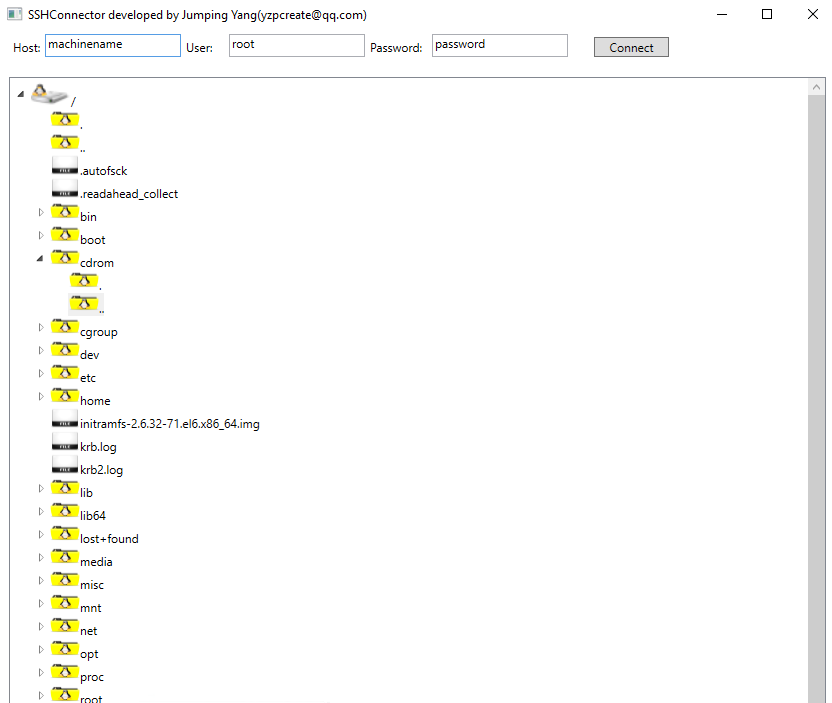
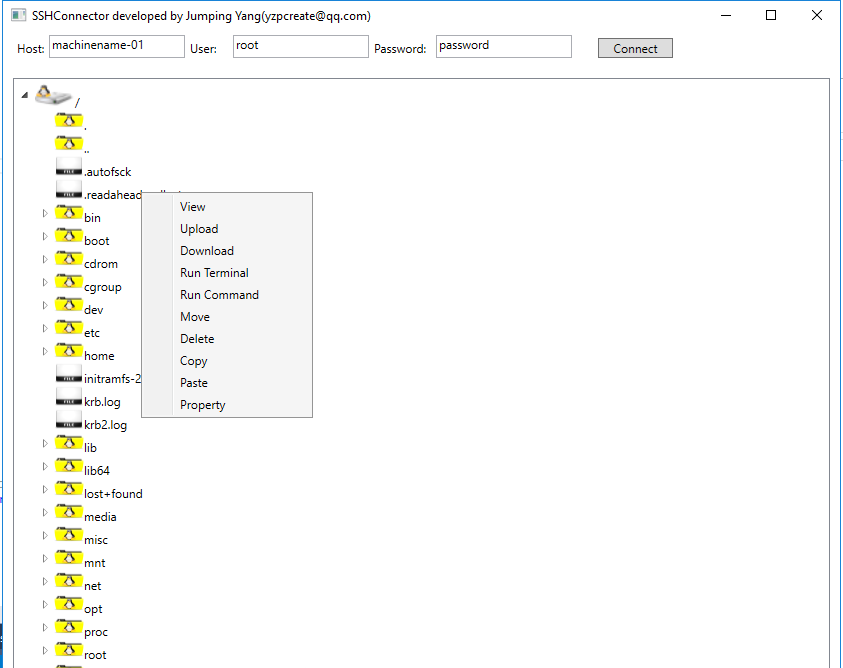
Add menus for SSHConnector

diff --git a/SSHConnector/SSHConnector/MainWindow.xaml.cs b/SSHConnector/SSHConnector/MainWindow.xaml.cs
@@ -146,13 +146,77 @@ namespace SSHConnector
 
             MenuItem mitem2 = new MenuItem();
             TextBlock v2 = new TextBlock();
-            v2.Inlines.Add("View2");
+            v2.Inlines.Add("Upload");
             mitem2.Header = v2;
             mitem2.Tag = o;
             mitem2.Click += MenuItem_View;
 
+            MenuItem mitem3 = new MenuItem();
+            TextBlock v3 = new TextBlock();
+            v3.Inlines.Add("Download");
+            mitem3.Header = v3;
+            mitem3.Tag = o;
+            mitem3.Click += MenuItem_View;
+
+            MenuItem mitem4 = new MenuItem();
+            TextBlock v4 = new TextBlock();
+            v4.Inlines.Add("Run Terminal");
+            mitem4.Header = v4;
+            mitem4.Tag = o;
+            mitem4.Click += MenuItem_View;
+
+            MenuItem mitem5 = new MenuItem();
+            TextBlock v5 = new TextBlock();
+            v5.Inlines.Add("Run Command");
+            mitem5.Header = v5;
+            mitem5.Tag = o;
+            mitem5.Click += MenuItem_View;
+
+            MenuItem mitem6 = new MenuItem();
+            TextBlock v6 = new TextBlock();
+            v6.Inlines.Add("Move");
+            mitem6.Header = v6;
+            mitem6.Tag = o;
+            mitem6.Click += MenuItem_View;
+
+            MenuItem mitem7 = new MenuItem();
+            TextBlock v7 = new TextBlock();
+            v7.Inlines.Add("Delete");
+            mitem7.Header = v7;
+            mitem7.Tag = o;
+            mitem7.Click += MenuItem_View;
+
+            MenuItem mitem8 = new MenuItem();
+            TextBlock v8 = new TextBlock();
+            v8.Inlines.Add("Copy");
+            mitem8.Header = v8;
+            mitem8.Tag = o;
+            mitem8.Click += MenuItem_View;
+
+            MenuItem mitem9 = new MenuItem();
+            TextBlock v9= new TextBlock();
+            v9.Inlines.Add("Paste");
+            mitem9.Header = v9;
+            mitem9.Tag = o;
+            mitem9.Click += MenuItem_View;
+
+            MenuItem mitem10 = new MenuItem();
+            TextBlock v10 = new TextBlock();
+            v10.Inlines.Add("Property");
+            mitem10.Header = v10;
+            mitem10.Tag = o;
+            mitem10.Click += MenuItem_View;
+
             menu.Items.Add(mitem1);
             menu.Items.Add(mitem2);
+            menu.Items.Add(mitem3);
+            menu.Items.Add(mitem4);
+            menu.Items.Add(mitem5);
+            menu.Items.Add(mitem6);
+            menu.Items.Add(mitem7);
+            menu.Items.Add(mitem8);
+            menu.Items.Add(mitem9);
+            menu.Items.Add(mitem10);
             tempTextBlock.ContextMenu = menu;
 
             return tempTextBlock;

diff --git a/README.md b/README.md
@@ -1,8 +1,20 @@
 # SSHConnector
 SSHConnector
 
-# WindowsExplorer Screen shots
-![Alt text](WE.PNG?raw=true "Windows Explorer")
+This tool is a WPF UI tool on Windows, it can connect to Linux/Unix machines and show the folders and files in UI.
+Welcome any friend to add more for this tool, thanks very much! :)
+
+Done:
+ - Add Menu: "View","Upload","Download","Run Terminal","Run Command","Move","Delete","Copy","Paste","Property"
+
+TODO:
+ - Implement Menu: "View","Upload","Download","Run Terminal","Run Command","Move","Delete","Copy","Paste","Property"
+
+# Call libs
+https://github.com/sshnet/SSH.NET
 
 # SSHConnector Screen shots
 ![Alt text](sshconnector.PNG?raw=true "SSHConnector")
+
+# WindowsExplorer Screen shots
+![Alt text](WE.PNG?raw=true "Windows Explorer")
